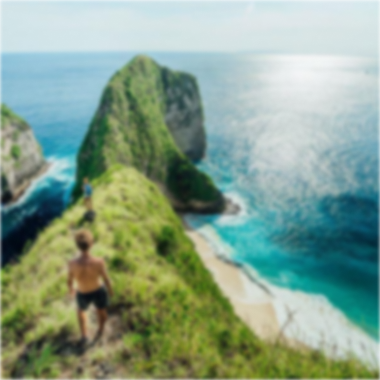
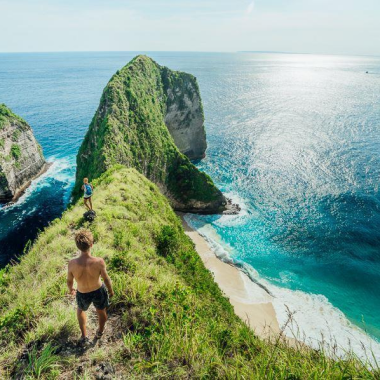
Surf-01: adds effects on tours section on the main page

diff --git a/src/scss/tours.scss b/src/scss/tours.scss
@@ -37,9 +37,12 @@
 
   .tour-item {
     position: relative;
+    cursor: pointer;
 
     img {
       width: 380px;
+      filter: blur(2px);
+      transition: all ease-in 0.3s;
     }
 
     &__infoblock {
@@ -71,6 +74,14 @@
       text-align: right;
       text-transform: uppercase;
       color: $color-text-secondary;
+    }
+
+    &:hover {
+      img {
+        filter: blur(0px);
+        transform: scale(1.01);
+        transition: all ease-in 0.3s;
+      }
     }
   }
 }
